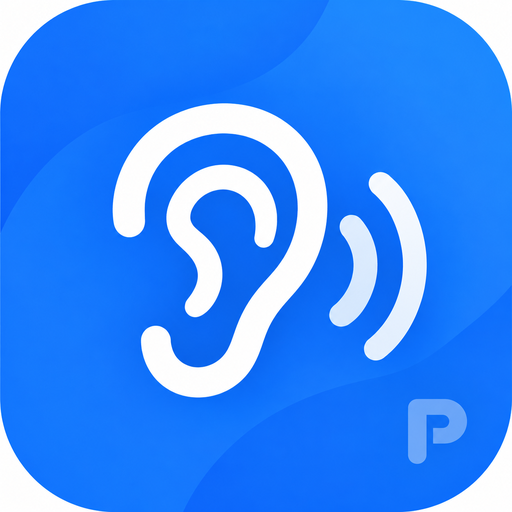
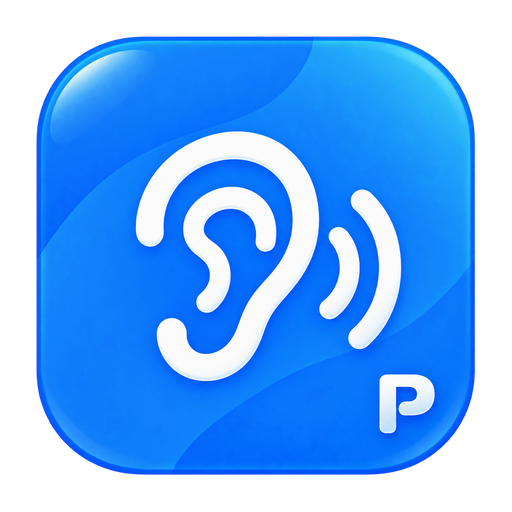
.

diff --git a/index.html b/index.html
@@ -4,25 +4,25 @@
   <meta charset="utf-8">
   <meta name="viewport" content="width=device-width,initial-scale=1">
   <title>파란 청취 실험 도구</title>
+  <link rel="stylesheet" href="common/styles.css">
   <meta name="theme-color" content="#1976e9">
   <link rel="icon" href="assets/favicon.ico" sizes="any">
   <link rel="icon" type="image/png" sizes="32x32" href="assets/favicon-32.png">
   <link rel="icon" type="image/png" sizes="16x16" href="assets/favicon-16.png">
   <link rel="apple-touch-icon" href="assets/apple-touch-icon.png">
   <link rel="manifest" href="site.webmanifest">
-  <link rel="stylesheet" href="common/styles.css">
 </head>
 <body class="designer-page">
 <main class="shell designer-shell">
   <header class="app-header designer-header">
     <div class="brand-block">
-      <img class="brand-logo" src="assets/icon-192.png" alt="파란 청취 실험 도구 아이콘">
+      <img class="brand-logo" src="assets/brand-icon.png" alt="파란 청취 실험 도구 아이콘">
       <div>
         <h1>파란 청취 실험 도구</h1>
         <p class="muted">실험 설계 · 참가자 화면 테스트 · 결과 분석</p>
       </div>
     </div>
-    <span class="version-badge">v0.7</span>
+    <span class="version-badge">v0.9</span>
   </header>
 
   <nav class="main-nav" aria-label="설계자 기능">
@@ -154,7 +154,7 @@
     </section>
   </section>
 
-  <footer class="designer-footer">파란 청취 실험 도구 · 실험 설계자 v0.6</footer>
+  <footer class="designer-footer">파란 청취 실험 도구 · 실험 설계자 v0.9</footer>
 </main>
 <script src="https://cdn.sheetjs.com/xlsx-0.20.3/package/dist/xlsx.full.min.js"></script>
 <script src="common/runner-core.js"></script>

diff --git a/common/styles.css b/common/styles.css
@@ -57,15 +57,8 @@ button{transition:transform .12s ease,box-shadow .12s ease,border-color .12s eas
 @media(max-width:820px){.designer-grid{grid-template-columns:1fr}.file-preview-row{grid-template-columns:1fr}.analysis-toolbar{align-items:flex-start;flex-direction:column}.view-heading{align-items:flex-start;flex-direction:column}.view-heading .large-action{width:100%}.main-nav{position:static}.main-nav-btn{padding:11px 7px;font-size:13px}}
 @media(max-width:620px){.participant-start-grid{grid-template-columns:1fr}.participant-setup-card,.runner-stage{padding:20px}.main-nav{grid-template-columns:1fr}.main-nav-btn{justify-content:flex-start}.participant-shell{padding-top:24px}.participant-header h1{font-size:26px}.runner-stage .option-button{min-height:68px}.kpi-grid{grid-template-columns:1fr 1fr}}
 
-/* v0.7 brand icon */
-.brand-logo{
-  width:46px;
-  height:46px;
-  border-radius:14px;
-  object-fit:cover;
-  flex:0 0 auto;
-  box-shadow:0 8px 22px rgba(31,78,121,.18);
-}
-@media(max-width:620px){
-  .brand-logo{width:42px;height:42px;border-radius:13px}
-}
+/* brand icon */
+.brand-logo{width:48px;height:48px;border-radius:14px;object-fit:contain;display:block;flex:0 0 auto;filter:drop-shadow(0 6px 16px rgba(31,78,121,.18));}
+.brand-block,.participant-header{display:flex;align-items:center;gap:14px;}
+.brand-copy{display:block;}
+@media(max-width:620px){.brand-logo{width:42px;height:42px;border-radius:12px}}

diff --git a/README.md b/README.md
@@ -1,60 +1,25 @@
 # 파란 청취 실험 도구 — 설계자용
 
-GitHub Pages에 올리는 **설계자 전용** 저장소입니다.
-참가자용 페이지와 참가자 실행 파일은 포함하지 않습니다.
+GitHub Pages 배포용 설계자 패키지입니다.
 
-## 포함 기능
+## 포함 파일
+- `index.html`
+- `designer.js`
+- `common/runner-core.js`
+- `common/analysis-core.js`
+- `common/styles.css`
+- `assets/` 아이콘 파일
+- `site.webmanifest`
+- `.nojekyll`
 
-- 프로젝트 폴더 열기
-- 음성파일 목록 읽기
-- 문항별 선택지 및 정답 설정
-- 프로젝트 원본 저장 (`프로젝트ID_master.json`)
-- 참가자용 JSON 생성 (`프로젝트ID_experiment.json`)
-- 참가자 화면과 동일한 Runner로 실험 테스트
-- 여러 참가자 결과 JSON 집계
-- 참가자별 통계
-- 문제별 통계
-- 같은 정답 발음끼리 묶은 발음별 통계
-- 전체 원자료 확인
-- Excel / CSV 저장
+## 아이콘 자산
+`assets/` 안의 아이콘 PNG와 favicon은 **투명 배경으로 다시 생성**했습니다.
+모서리 알파값을 검사해 투명 처리를 확인했습니다.
 
-실제 음성, 정답, 참가자 결과는 GitHub 저장소로 전송하지 않고 브라우저에서 로컬 파일만 읽습니다.
+## GitHub Pages
+- Settings → Pages
+- Source: Deploy from a branch
+- Branch: `main`
+- Folder: `/ (root)`
 
-## GitHub Pages 배포
-
-1. 새 GitHub 저장소를 만듭니다. 예: `paran-listening-experiment-designer`
-2. 이 패키지의 압축을 풀어 **내용물 전체**를 저장소 루트에 올립니다.
-3. GitHub의 `Settings → Pages`로 이동합니다.
-4. `Build and deployment`에서 `Deploy from a branch`를 선택합니다.
-5. `main` 브랜치와 `/(root)`를 선택하고 저장합니다.
-
-배포 주소 예:
-
-`https://사용자명.github.io/paran-listening-experiment-designer/`
-
-## 파일 구조
-
-```text
-/
-├─ index.html
-├─ designer.js
-├─ .nojekyll
-├─ README.md
-└─ common/
-   ├─ runner-core.js
-   ├─ analysis-core.js
-   └─ styles.css
-```
-
-## 참고
-
-Excel 저장 기능은 브라우저에서 SheetJS CDN을 사용하므로 Excel 저장 시 인터넷 연결이 필요합니다. CSV 저장은 별도 라이브러리 없이 동작합니다.
-
-## v0.7 아이콘 적용
-
-- 브라우저 탭 favicon
-- 모바일 홈 화면용 Apple Touch Icon
-- PWA/Web App 아이콘 192px / 512px
-- 프로그램 상단 로고
-- `site.webmanifest` 포함
-
+배포 주소 예: `https://사용자명.github.io/paran-listening-experiment-designer/`
